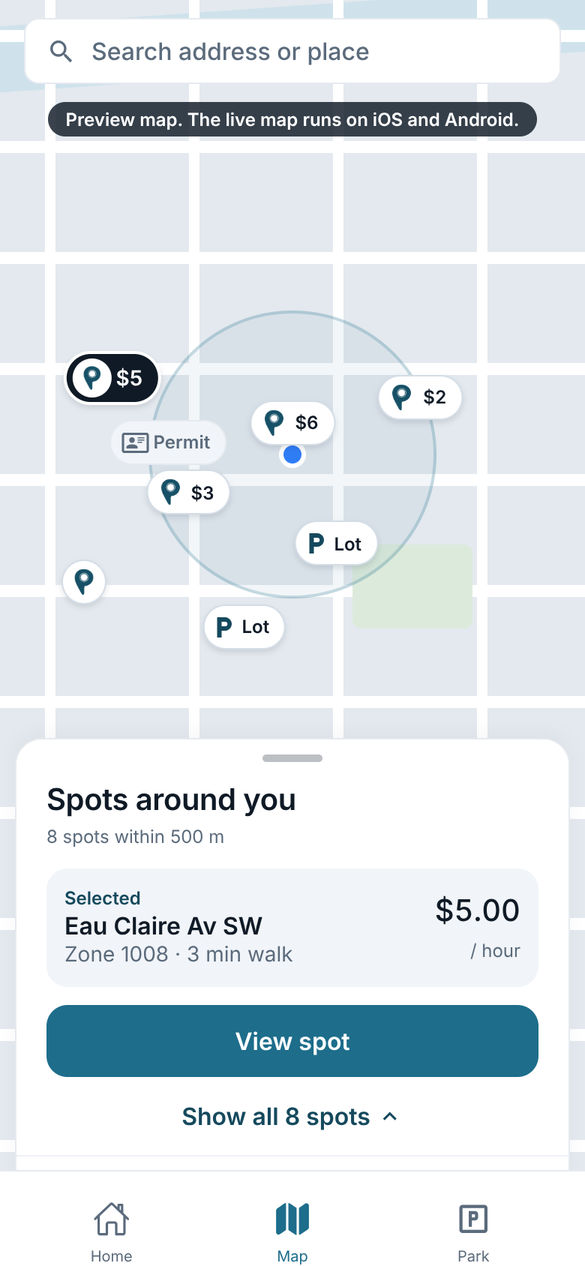
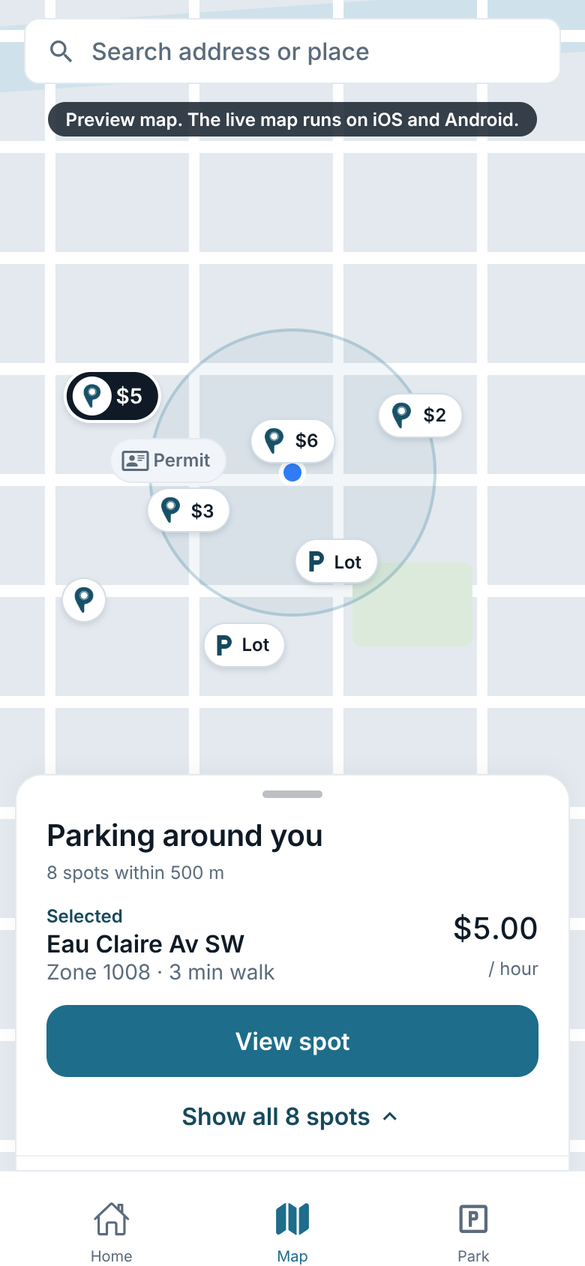
docs: re-shoot Home, Map and Park setup for the latest wording
Home now reads "A good spot to start", the map sheet "Parking around you"
with the selected spot straight on the sheet, and Park setup shows the
white plate and duration fields. The other three screens did not change.

Claude-Session: https://claude.ai/code/session_01BAqhrSuRcLcLiCVgthGree

diff --git a/README.md b/README.md
@@ -13,7 +13,7 @@ needs one setting to reach it (`EXPO_PUBLIC_API_URL`).
 
 ## What it does
 
-- Suggests a good place to park near you, then lists the rest. Sort by
+- Suggests a good spot near you, then lists the rest. Sort by
   closest or by best value. Filters, shared by the list and the map, narrow
   it to street, lot, parkade or permit parking within 150 m to 1 km.
 - Shows spots on a map as pins with their hourly rate, so you can compare
